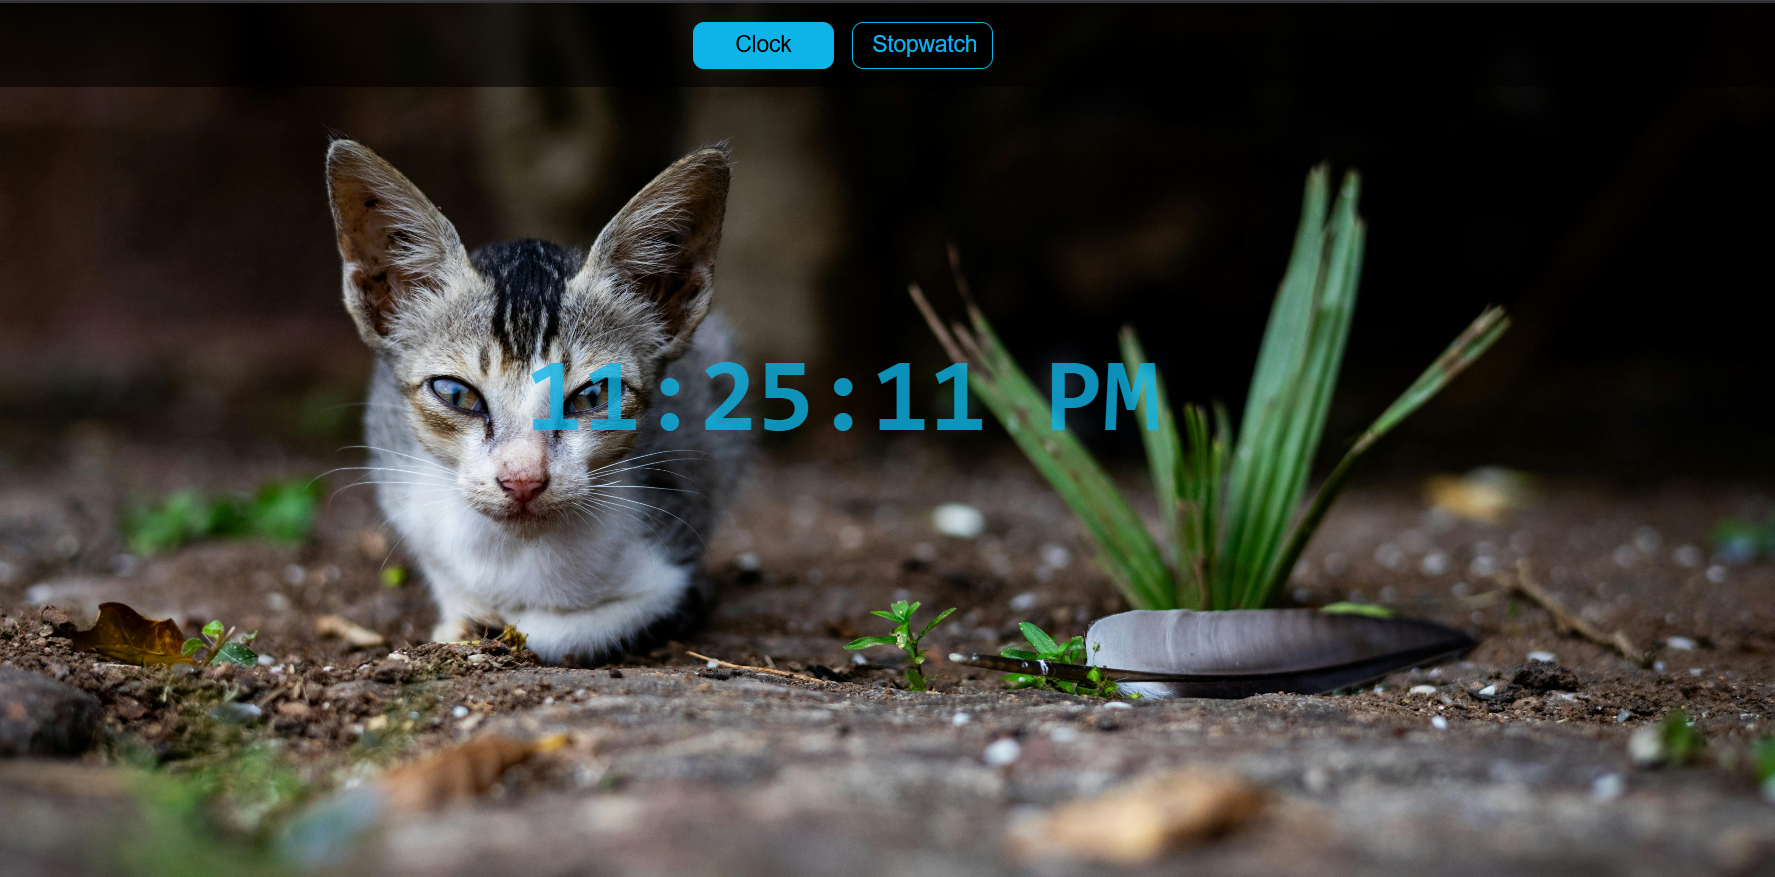
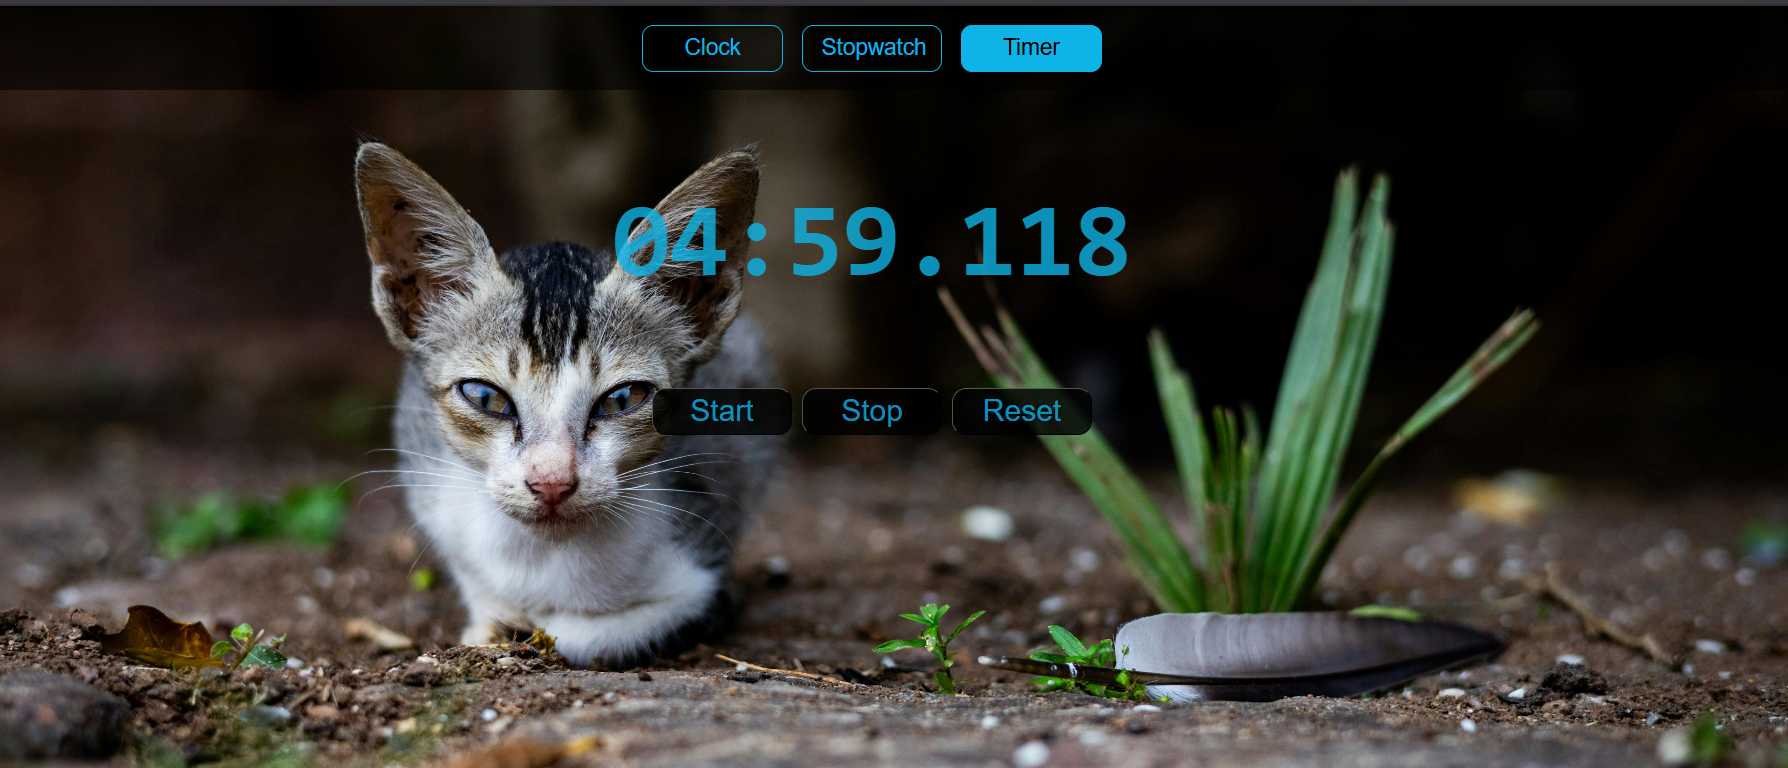
feat(timer): Add editable countdown input

diff --git a/src/Timer.jsx b/src/Timer.jsx
@@ -1,0 +1,91 @@
+import { useState, useRef } from "react";
+
+export default function Timer() {
+  const [time, setTime] = useState(5 * 60 * 1000); 
+  const [isRunning, setIsRunning] = useState(false);
+  const [editableTime, setEditableTime] = useState("05:00.000"); 
+  const intervalRef = useRef(null);
+  const startTimeRef = useRef(null);
+
+  function parseTime(str) {
+    
+    const [minSec, ms = "0"] = str.split(".");
+    const [min = "0", sec = "0"] = minSec.split(":");
+    const minutes = parseInt(min) || 0;
+    const seconds = parseInt(sec) || 0;
+    const milliseconds = parseInt(ms) || 0;
+    return minutes * 60000 + seconds * 1000 + milliseconds;
+  }
+
+  function formatTime(ms) {
+    const minutes = Math.floor(ms / 60000);
+    const seconds = Math.floor((ms % 60000) / 1000);
+    const milliseconds = ms % 1000;
+    return `${pad(minutes)}:${pad(seconds)}.${padMs(milliseconds)}`;
+  }
+
+  function pad(num) {
+    return num.toString().padStart(2, "0");
+  }
+  function padMs(num) {
+    return num.toString().padStart(3, "0");
+  }
+
+  function handleStart() {
+    if (!isRunning) {
+      
+      const initialMs = parseTime(editableTime);
+      setTime(initialMs);
+      setIsRunning(true);
+
+      startTimeRef.current = Date.now();
+      intervalRef.current = setInterval(() => {
+        setTime((prev) => {
+          const newTime = prev - (Date.now() - startTimeRef.current);
+          startTimeRef.current = Date.now();
+          if (newTime <= 0) {
+            clearInterval(intervalRef.current);
+            setIsRunning(false);
+            return 0;
+          }
+          return newTime;
+        });
+      }, 10);
+    }
+  }
+
+  function handleStop() {
+    setIsRunning(false);
+      clearInterval(intervalRef.current);
+      setEditableTime(formatTime(time)); 
+  }
+
+  function handleReset() {
+    setIsRunning(false);
+    clearInterval(intervalRef.current);
+    setTime(5 * 60 * 1000);
+    setEditableTime("05:00.000");
+  }
+
+  return (
+    <div className="timer-div">
+      
+        {isRunning ? (
+          <h2>{formatTime(time)}</h2>
+        ) : (
+          <input
+            type="text"
+            value={editableTime}
+            onChange={(e) => setEditableTime(e.target.value)}
+          />
+        )}
+      
+
+      <div className="buttons-div">
+        <button onClick={handleStart}>Start</button>
+        <button onClick={handleStop}>Stop</button>
+        <button onClick={handleReset}>Reset</button>
+      </div>
+    </div>
+  );
+}

diff --git a/src/App.jsx b/src/App.jsx
@@ -1,6 +1,7 @@
 import { useState } from "react";
 import Time from "./Time";
 import StopWatch from "./StopWatch";
+import Timer from "./Timer"
 
 function App() {
   const [activeTab, setActiveTab] = useState("clock"); // default show clock
@@ -21,12 +22,19 @@ function App() {
         >
           Stopwatch
         </button>
+        <button
+          className={activeTab === "timer" ? "active" : ""}
+          onClick={() => setActiveTab("timer")}
+        >
+          Timer
+        </button>
       </nav>
 
       {/* Conditional Rendering */}
       <div className="content">
         {activeTab === "clock" && <Time />}
         {activeTab === "stopwatch" && <StopWatch />}
+        {activeTab ==="timer" && <Timer />}
       </div>
     </>
   );

diff --git a/src/index.css b/src/index.css
@@ -18,7 +18,7 @@ h2{
 
 .main-container{
   display: flex;
-  height: 70vh;
+  /* height: 70vh; */
   align-items: center;
   justify-content: center;
 }
@@ -46,6 +46,31 @@ border-radius: 15px;
 color: rgba(14, 180, 231, 0.792);
 background-color: rgba(0, 0, 0, 0.811);
 
+}
+
+
+
+.timer-div{
+  display: flex;
+  flex-direction: column;
+  
+  align-items: center;
+  height: 100hv;
+  justify-content: center;
+}
+
+.timer-div input{
+  color: rgba(14, 180, 231, 0.792);
+  background-color: rgba(0, 255, 255, 0);  
+  font-size: 2em;
+  text-align: center;  
+  border-style: none;
+  padding: 5px;
+  outline: none;
+  font-size: 7rem;
+  font-weight: bold;
+  font-family: monospace;
+  margin-bottom: 25px;
 }
 
 .navbar {

diff --git a/src/Time.jsx b/src/Time.jsx
@@ -31,9 +31,7 @@ export default function Time() {
         return (number < 10 ? "0" : "") + number;
     }
 
-    
-
-    
+        
     return (
         <>
         <div className="main-container">

diff --git a/README.md b/README.md
@@ -1,21 +1,32 @@
-  # ⏱ React Time Tools
+ # ⏱ React Time Tools  
 
-  A React app featuring a **Digital Clock, Stopwatch, and Countdown Timer** — built using React hooks (`useState`, `useEffect`, `useRef`).  
-  This project is designed as a learning exercise and a handy demo of time-based utilities in React.
+A simple and interactive **React app** featuring a **Digital Clock, Stopwatch, and Countdown Timer** — built with React hooks (`useState`, `useEffect`, `useRef`).  
+Designed as a learning project and a handy demo of time-based utilities in React.  
 
-  ---
+---
 
-  ## 📌 Repo Description
-  A React app featuring a Digital Clock, Stopwatch, and Countdown Timer — built with React hooks (useState, useEffect, useRef) for learning and practice.
+## 📌 Description  
+React Time Tools provides three essential time utilities with a clean digital UI:  
+- **Digital Clock** – always-on clock with AM/PM  
+- **Stopwatch** – millisecond precision, start/stop/reset  
+- **Countdown Timer** – custom time input and live countdown  
 
-  ---
+---
 
-  ## 🚀 Features
-  - 🕒 **Digital Clock** – real-time clock with AM/PM format  
-  - ⏱ **Stopwatch** – start, stop, reset with millisecond precision  
-  - 🎨 Clean digital-style UI  
+## 🛠 Tech Stack
+- ⚛ React (Vite)  
+- 🎨 CSS (custom styles)  
+- 🔧 React Hooks (`useState`, `useEffect`, `useRef`)  
 
-  ---
+---
+
+## 🚀 Features
+- 🕒 **Digital Clock** – real-time with AM/PM  
+- ⏱ **Stopwatch** – start, stop, reset with ms precision  
+- ⏳ **Countdown Timer** – editable input & countdown  
+- 🎨 **Minimal UI** – clean and easy to use 
+
+---
 
   ## 📂 Project Structure
 src/
@@ -53,7 +64,7 @@ src/
 ---
 
 ## 🎨 Screenshots
-
+![alt text](image.png)
 ![alt text](image-1.png)
 ![alt text](image-2.png)
 
@@ -62,7 +73,8 @@ src/
 ## 💡 Future Improvements
 - ⏰ Add Alarm feature  
 - 📋 Add Lap functionality for Stopwatch  
-- 🎵 Add sound notification when Timer ends  
+- 🎵 Add sound notification when Timer ends 
+- 🌙 Dark mode support 
 
 ---
 
